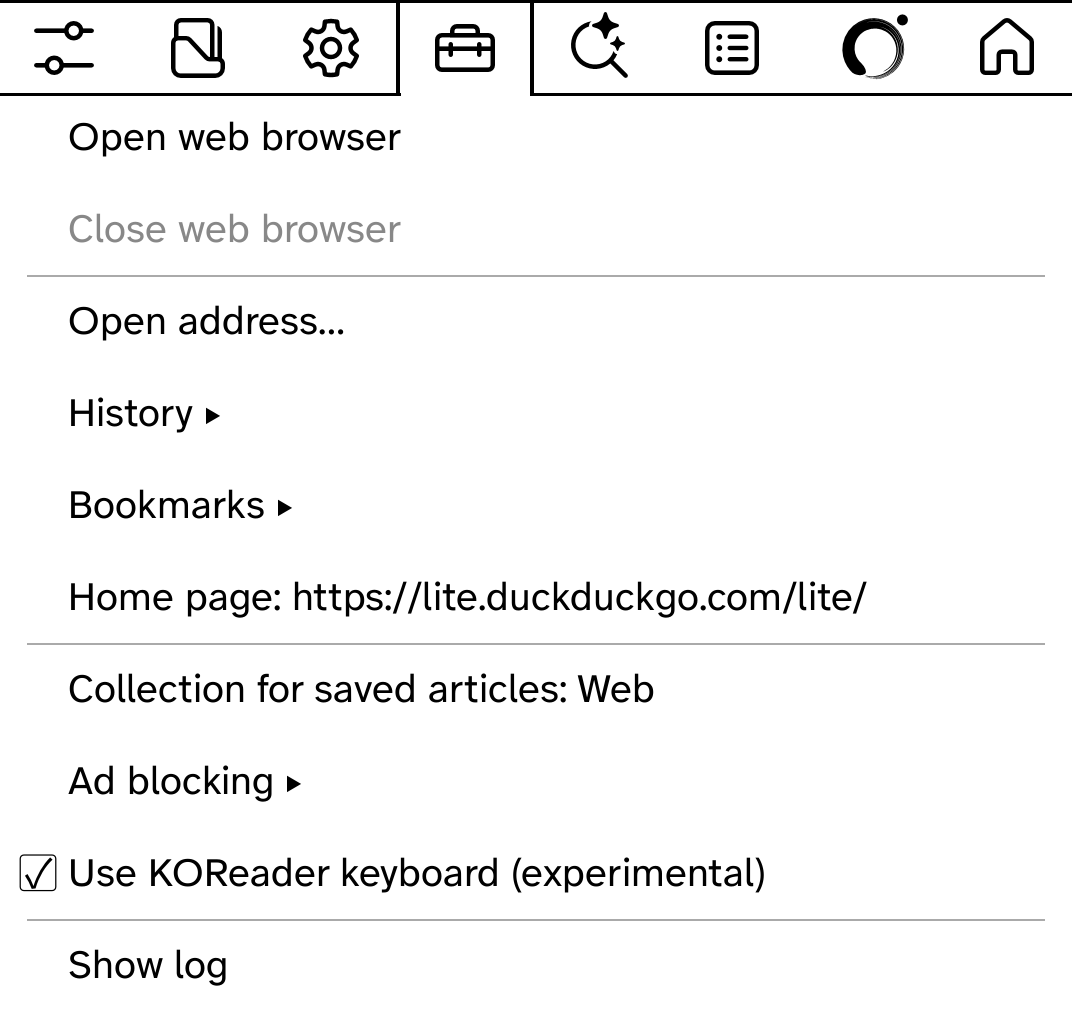
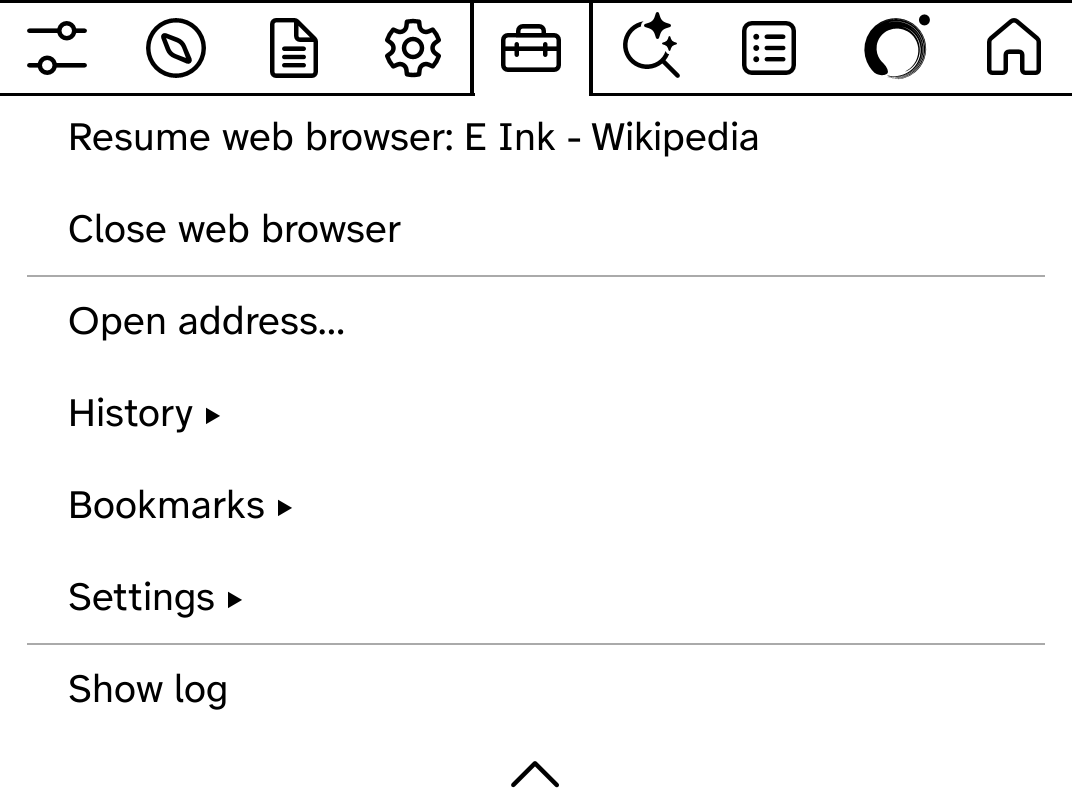
KOReader menu screenshot with Resume; comments no longer mention the old app launcher

diff --git a/main.cpp b/main.cpp
@@ -1293,7 +1293,7 @@ void Browser::loadFinished(bool ok)
     }
 }
 // Hand sleep to KOReader: note the page (URL, scroll, zoom) in the handoff file and
-// exit. applauncher.koplugin puts KOReader to sleep with its own screensaver and
+// exit. The KOReader plugin puts KOReader to sleep with its own screensaver and
 // relaunches the browser on this page when the device wakes.
 void Browser::sleepToKoreader()
 {
@@ -1880,7 +1880,7 @@ void Browser::showToc()
     }
 }
 
-// "Open now": the handoff line is already written; exit so KOReader (applauncher.koplugin)
+// "Open now": the handoff line is already written; exit so KOReader (kobo-webbrowser.koplugin)
 // adds the file to its collection and opens it.
 void Browser::openSavedEpub(const QString &path)
 {

diff --git a/epub.h b/epub.h
@@ -46,7 +46,7 @@ public:
     static void clearReaderDir();
     static QString safeFileName(const QString &title);
 
-    // Handoff to KOReader (read by applauncher.koplugin after the browser exits):
+    // Handoff to KOReader (read by kobo-webbrowser.koplugin after the browser exits):
     // $KB_HANDOFF_FILE, lines "saved\t<path>" for every EPUB written, "open\t<path>" to open one,
     // "read\t<path>\t<url>\t<scrollY>\t<zoom>" to read a reader-mode copy and come back here.
     static QString handoffFile();

diff --git a/power.h b/power.h
@@ -49,7 +49,7 @@ public:
     bool sleeping() const { return m_state != Awake; }
 signals:
     void message(const QString &text);   // for the status line
-    // KB_KO_SLEEP=1 (set by applauncher.koplugin): instead of suspending itself, the
+    // KB_KO_SLEEP=1 (set by the KOReader plugin): instead of suspending itself, the
     // browser hands sleep to KOReader (its screensaver/wallpaper and suspend code) and
     // exits; KOReader relaunches it on wake.
     void sleepRequested();
